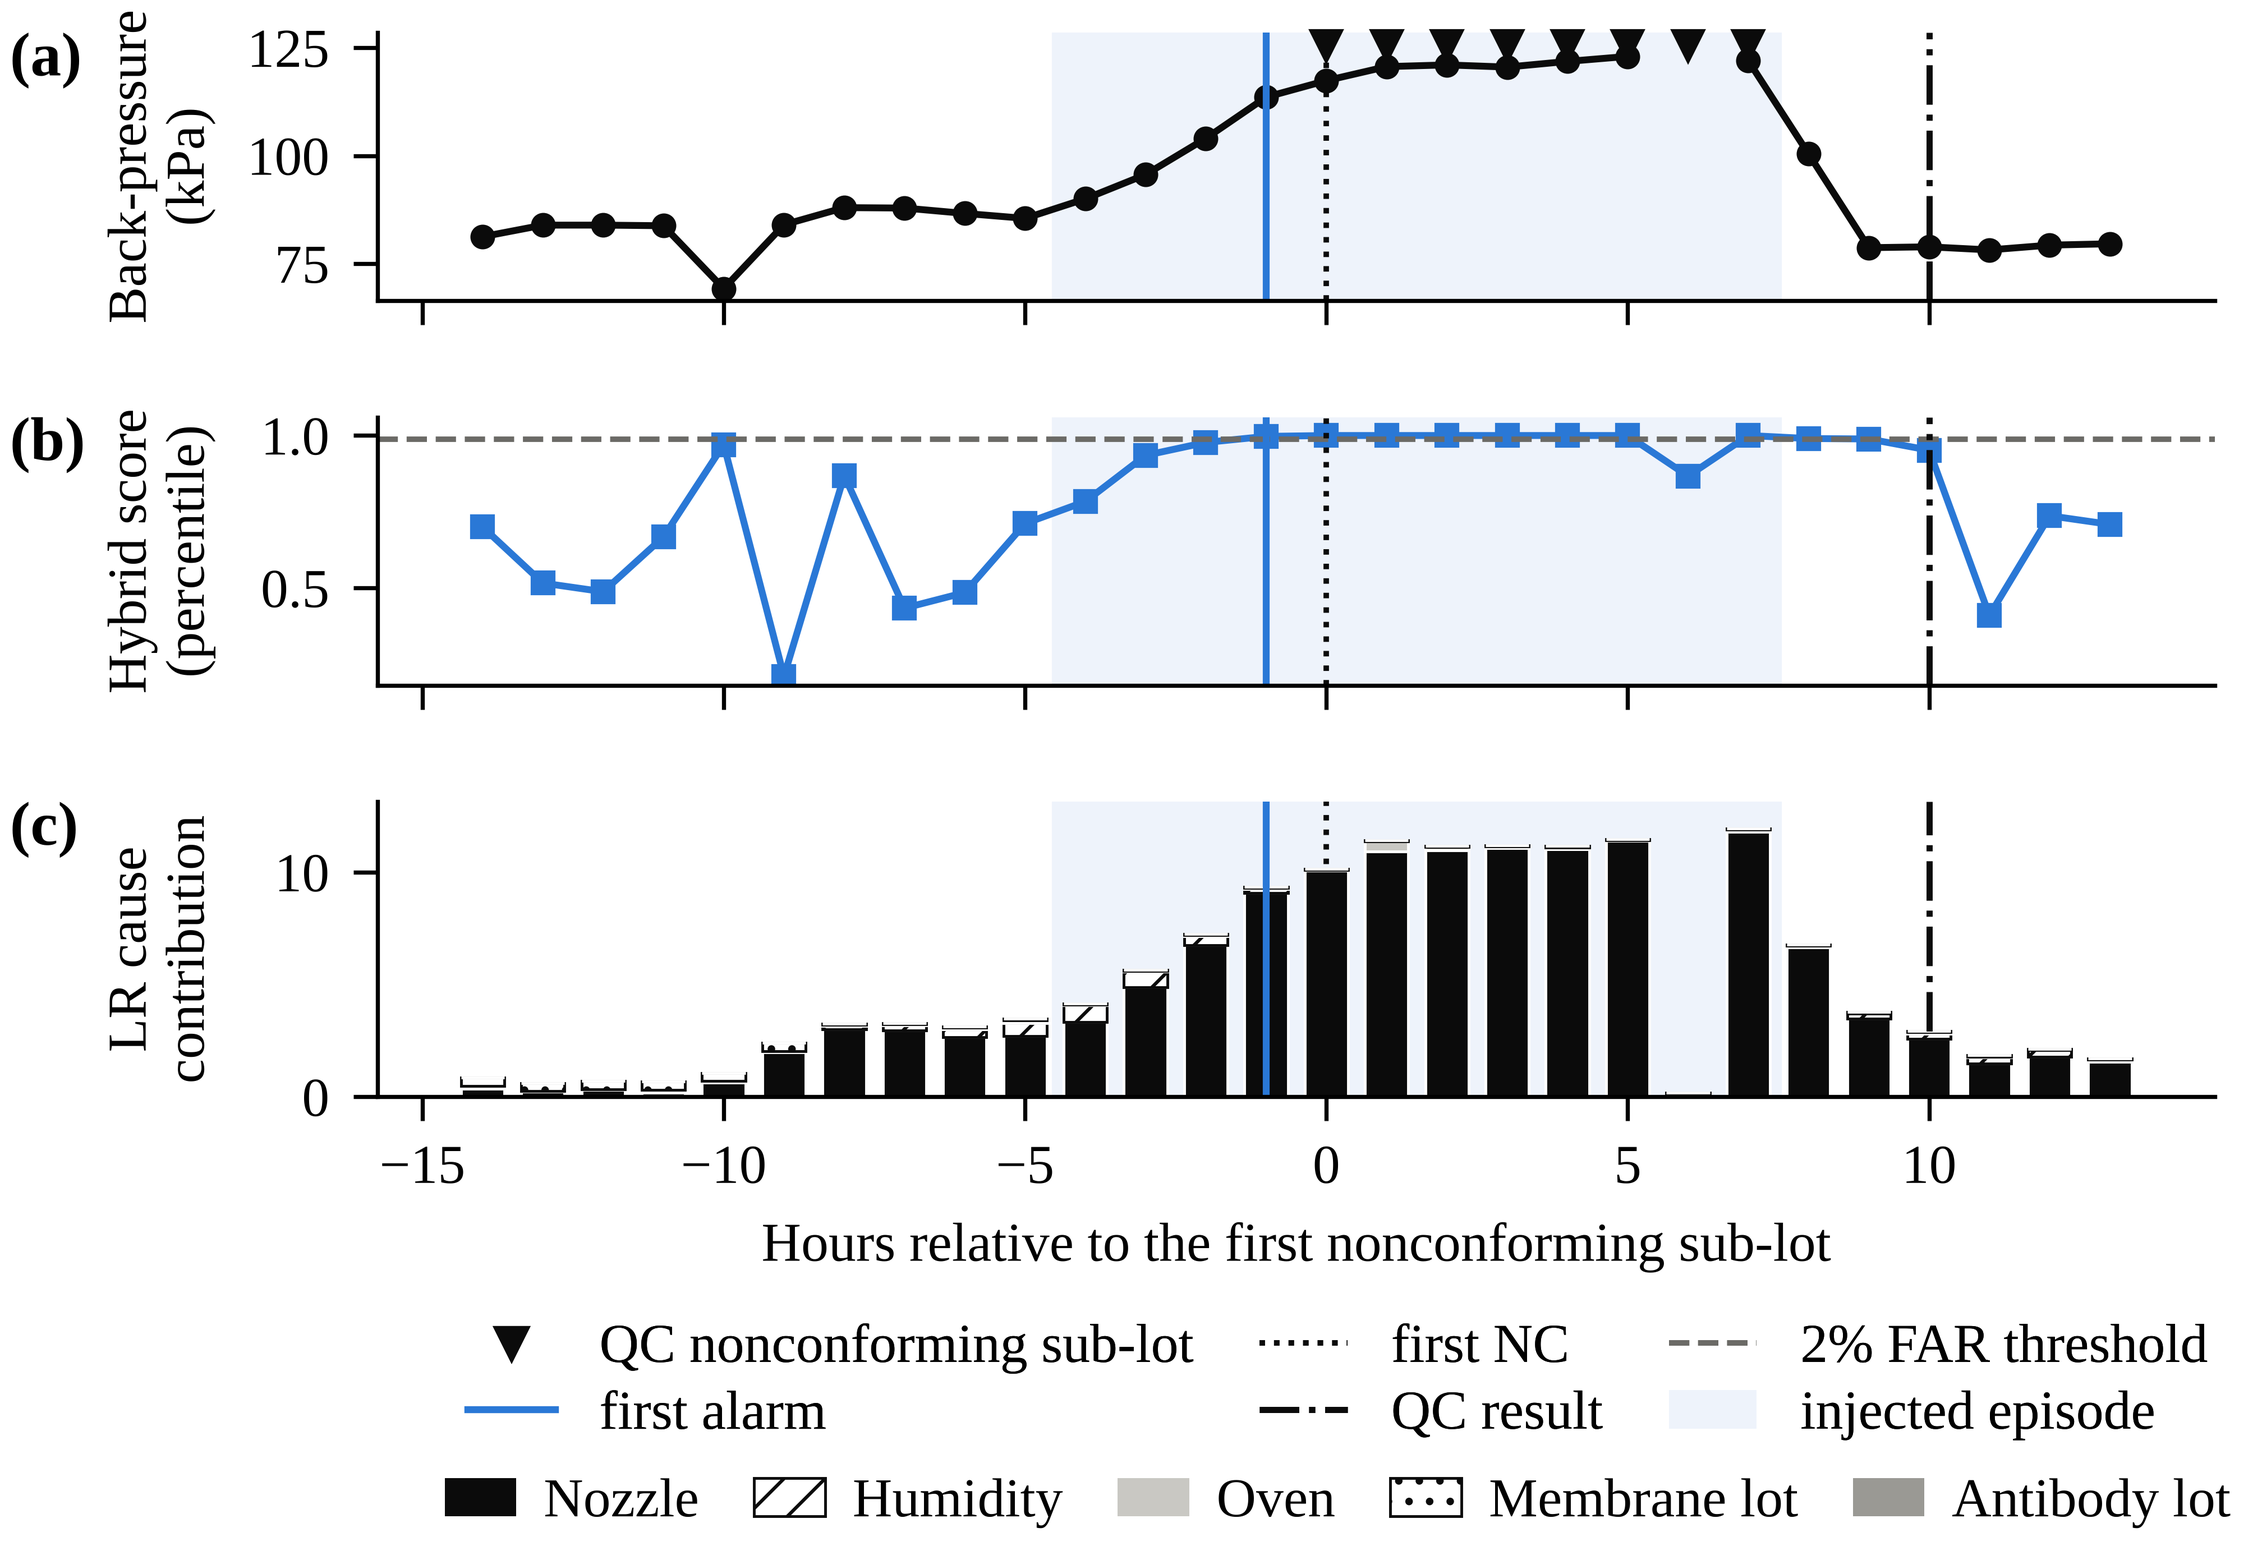
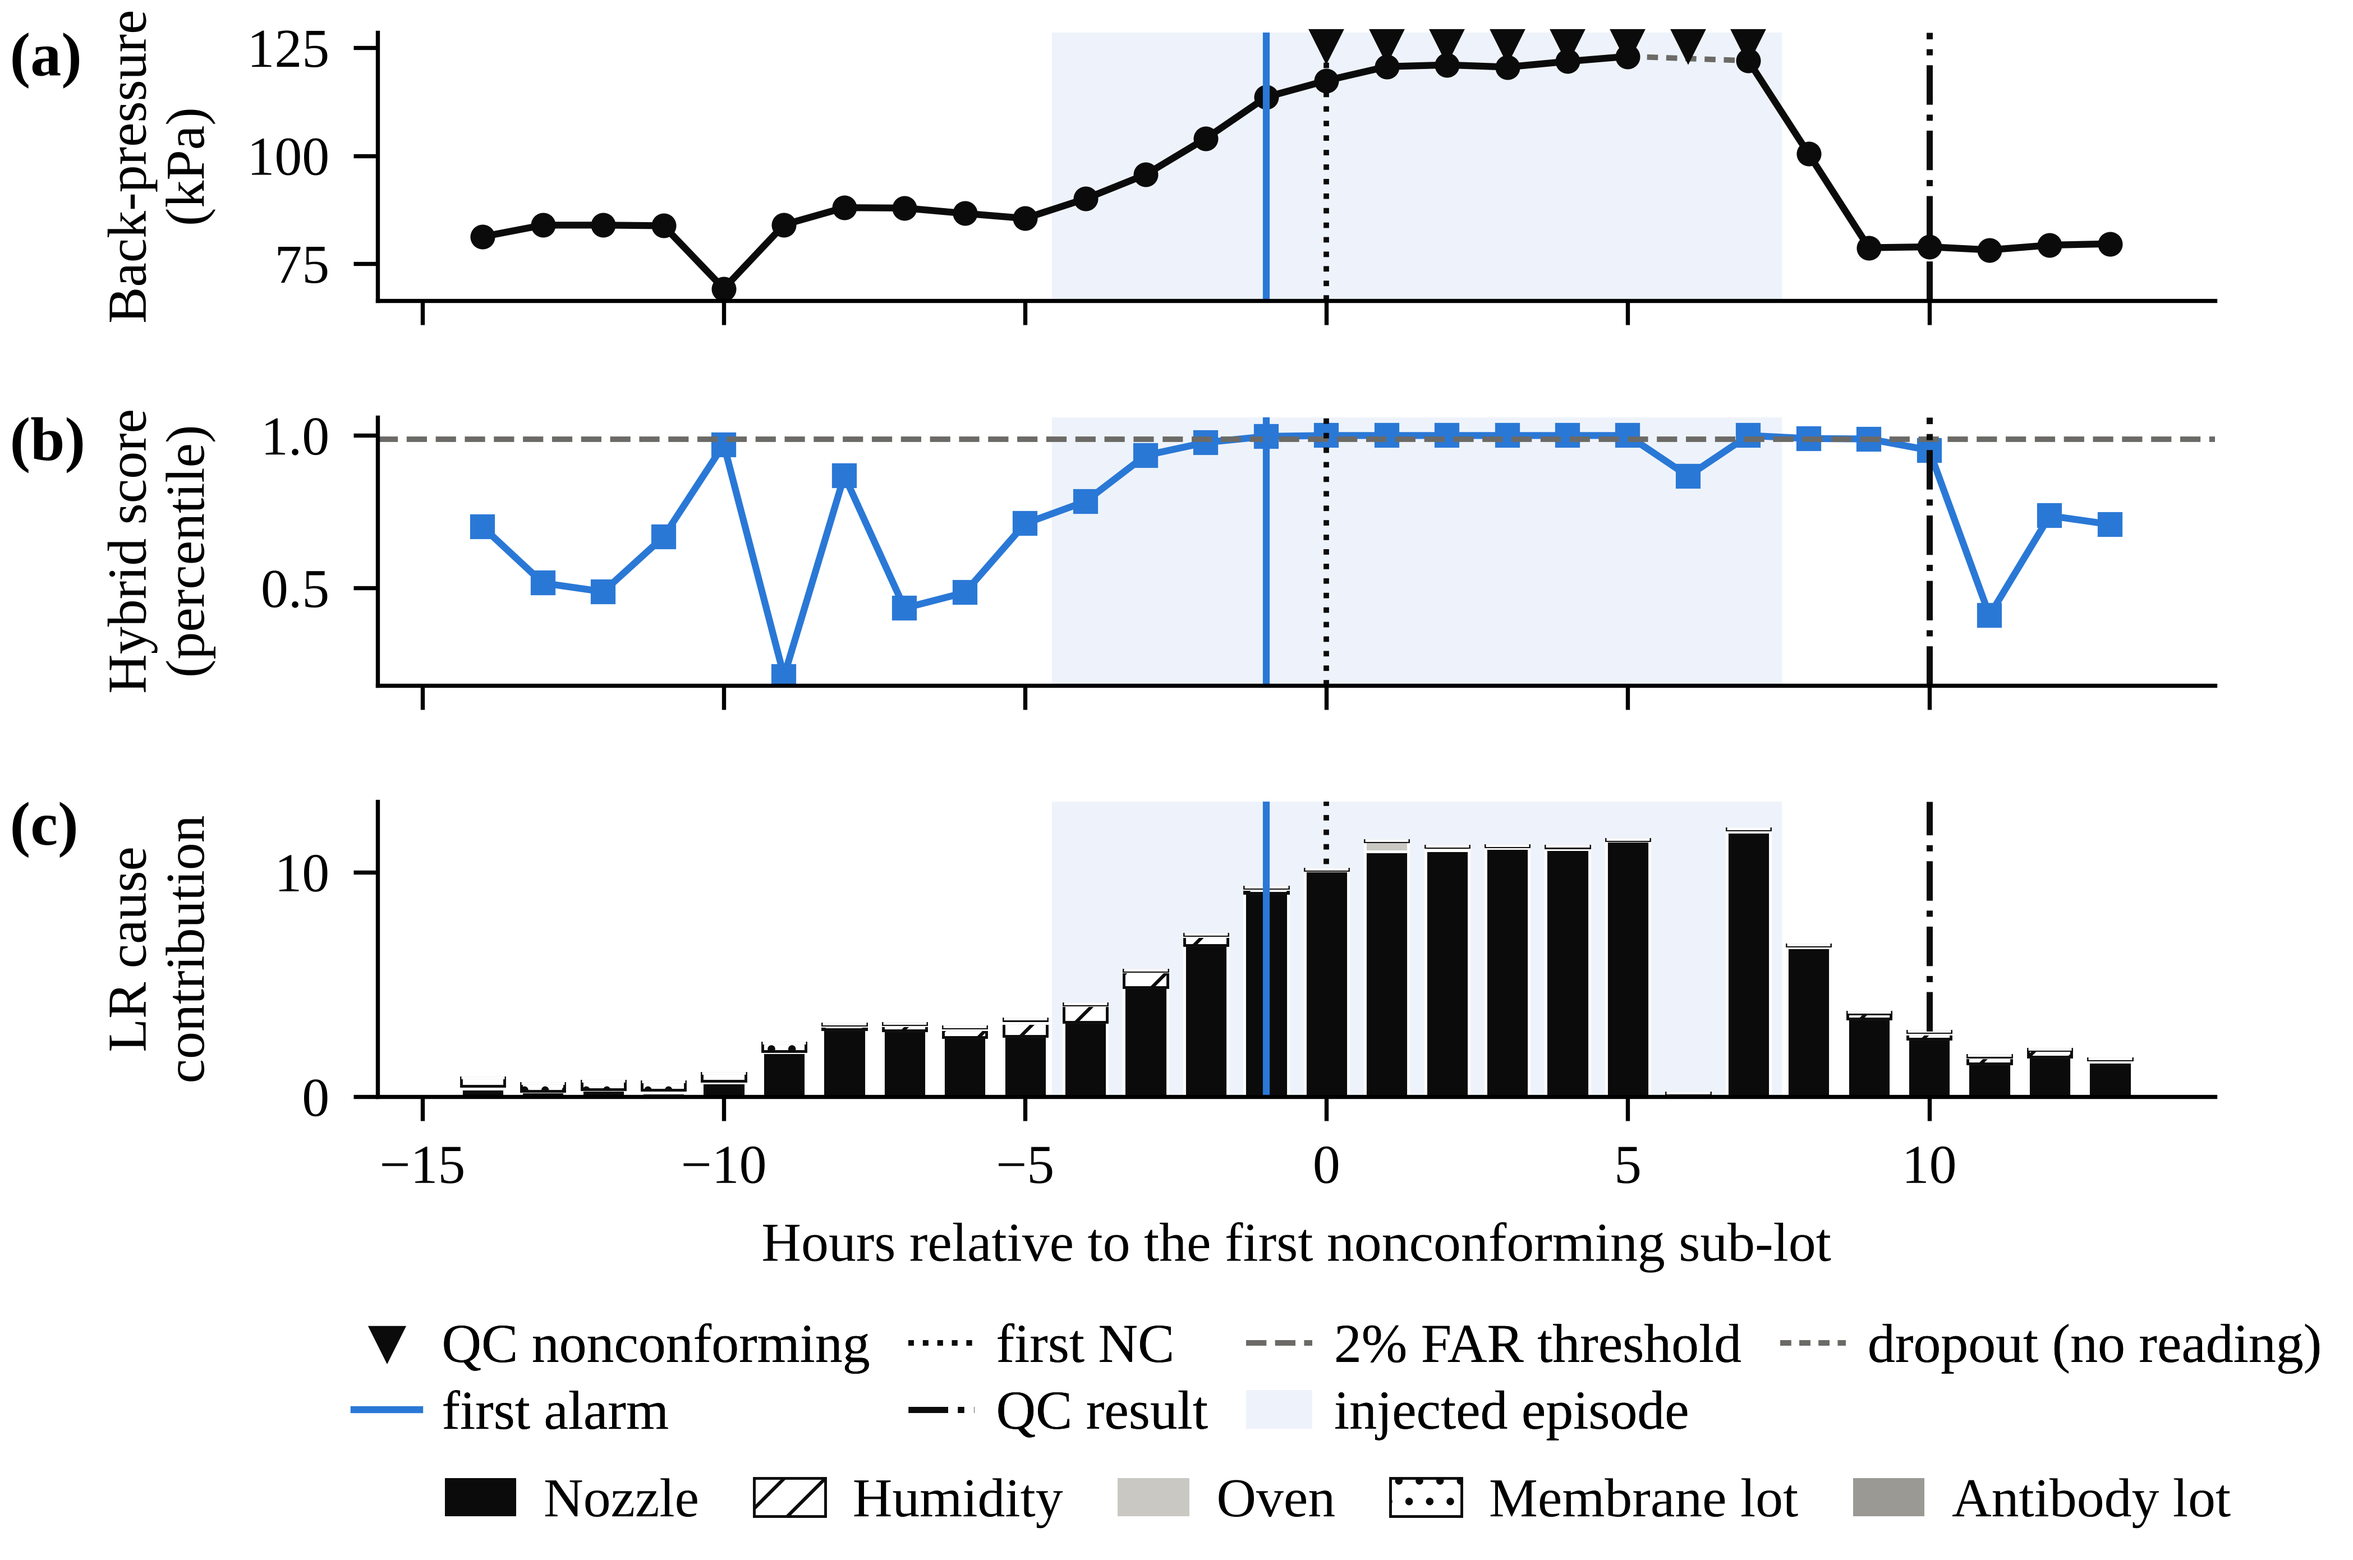
Fig. 3: bridge sensor dropout with a dashed segment and key it in the legend

diff --git a/code/figures_r2.py b/code/figures_r2.py
@@ -156,7 +156,19 @@ def fig_story(seed=10):
     A = ctx["models"]["LR-DS"][0].attrib(ds.iloc[idx]).reset_index(drop=True)
     G = pd.DataFrame({g: A[[c for c in cols if c in A.columns]].clip(lower=0).sum(1) for g, cols in sim.FEATURE_GROUPS.items()})
     fig, axs = plt.subplots(3, 1, figsize=(W, 2.8), sharex=True, gridspec_kw=dict(height_ratios=[1, 1, 1.1], hspace=0.42))
-    ax = axs[0]; ax.plot(x, ds.bp_norm.values[idx], color=INK, lw=1.0, marker="o", ms=2.6)
+    bp = ds.bp_norm.values[idx]
+    ax = axs[0]; ax.plot(x, bp, color=INK, lw=1.0, marker="o", ms=2.6)
+    # bridge each sensor-dropout run with a thin dashed segment between the readings either side; no value is drawn
+    # at the missing hour, so nothing is imputed
+    miss = ~np.isfinite(bp); j = 0
+    while j < len(bp):
+        if miss[j]:
+            k = j
+            while k < len(bp) and miss[k]: k += 1
+            if j > 0 and k < len(bp):
+                ax.plot([x[j - 1], x[k]], [bp[j - 1], bp[k]], color=GREY, lw=0.8, ls=(0, (2, 1.5)), zorder=1)
+            j = k
+        else: j += 1
     ax.set_ylabel("Back-pressure\n(kPa)")
     ax2 = axs[1]; ax2.plot(x, sc[idx], color=BLUE, lw=1.0, marker="s", ms=2.6)
     ax2.axhline(thr, color=GREY, lw=0.8, ls="--")
@@ -178,13 +190,14 @@ def fig_story(seed=10):
     for a, lab in zip(axs, "abc"):
         a.text(-0.2, 1.0, f"({lab})", transform=a.transAxes, fontsize=9, weight="bold", va="top")
     # all legends sit below the figure: event markers first, then the cause groups of panel (c)
-    ev = [Line2D([], [], marker="v", ls="", color=INK, ms=4, label="QC nonconforming sub-lot"),
+    ev = [Line2D([], [], marker="v", ls="", color=INK, ms=4, label="QC nonconforming"),
           Line2D([], [], color=BLUE, lw=1.0, label="first alarm"), Line2D([], [], color=INK, lw=0.8, ls=":", label="first NC"),
           Line2D([], [], color=INK, lw=0.9, ls="-.", label="QC result"), Line2D([], [], color=GREY, lw=0.8, ls="--", label="2% FAR threshold"),
-          Patch(fc="#eef3fb", ec="none", label="injected episode")]
+          Patch(fc="#eef3fb", ec="none", label="injected episode"),
+          Line2D([], [], color=GREY, lw=0.8, ls=(0, (2, 1.5)), label="dropout (no reading)")]
     cg = [Patch(fc=sty[g][0], ec=INK if sty[g][0] == "#ffffff" else "none", hatch=sty[g][1], lw=0.4, label=CAUSE[g]) for g in sim.FEATURE_GROUPS]
-    l1 = fig.legend(handles=ev, loc="upper center", bbox_to_anchor=(0.53, -0.03), ncol=3, frameon=False, handlelength=1.6,
-                    columnspacing=1.2, fontsize=FS, borderaxespad=0.2, labelspacing=0.3)
+    l1 = fig.legend(handles=ev, loc="upper center", bbox_to_anchor=(0.53, -0.03), ncol=4, frameon=False, handlelength=1.2, handletextpad=0.4,
+                    columnspacing=0.7, fontsize=FS, borderaxespad=0.2, labelspacing=0.3)
     fig.legend(handles=cg, loc="upper center", bbox_to_anchor=(0.53, -0.13), ncol=5, frameon=False, handlelength=1.3,
                handletextpad=0.5, columnspacing=1.0, fontsize=FS)
     fig.add_artist(l1)
